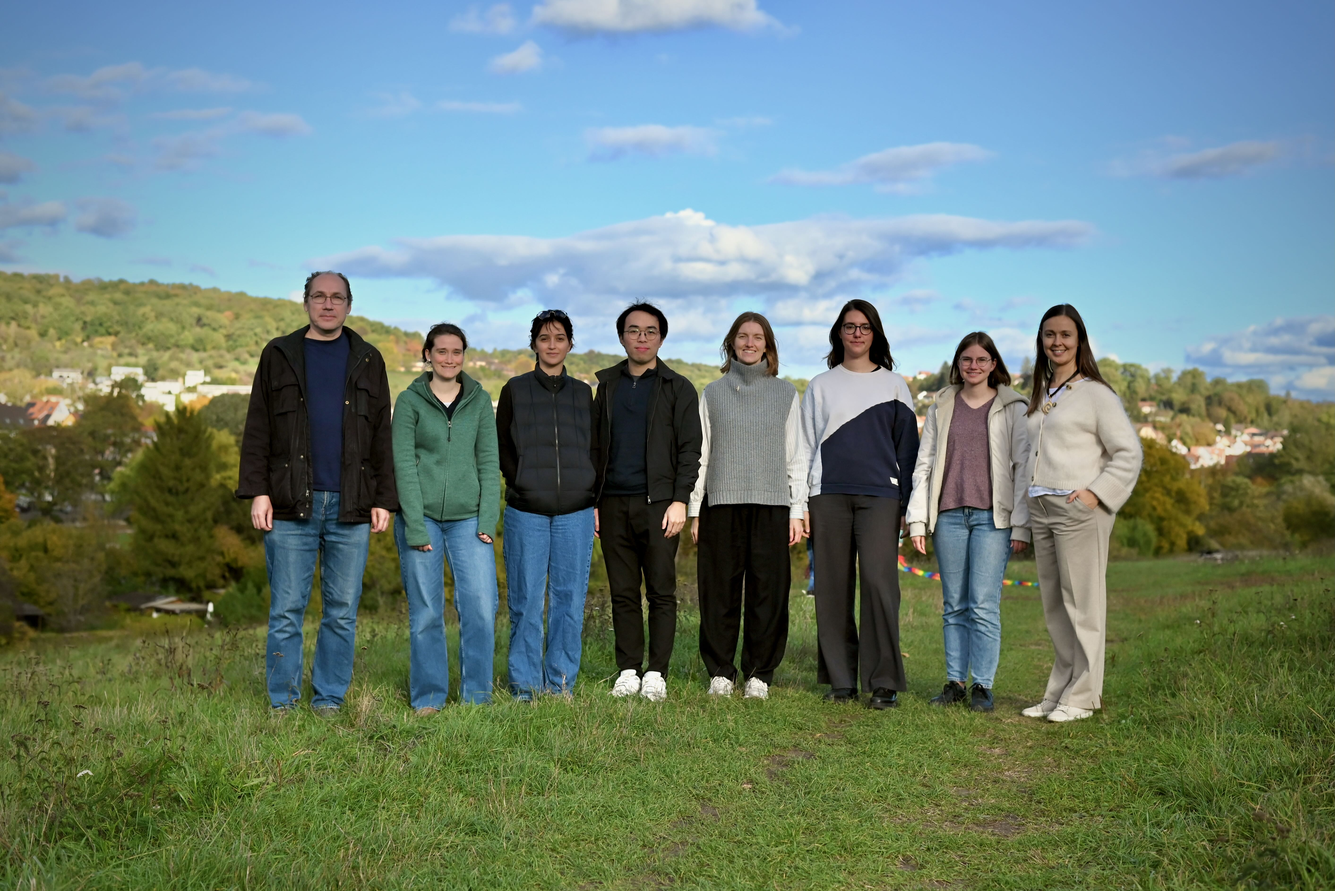
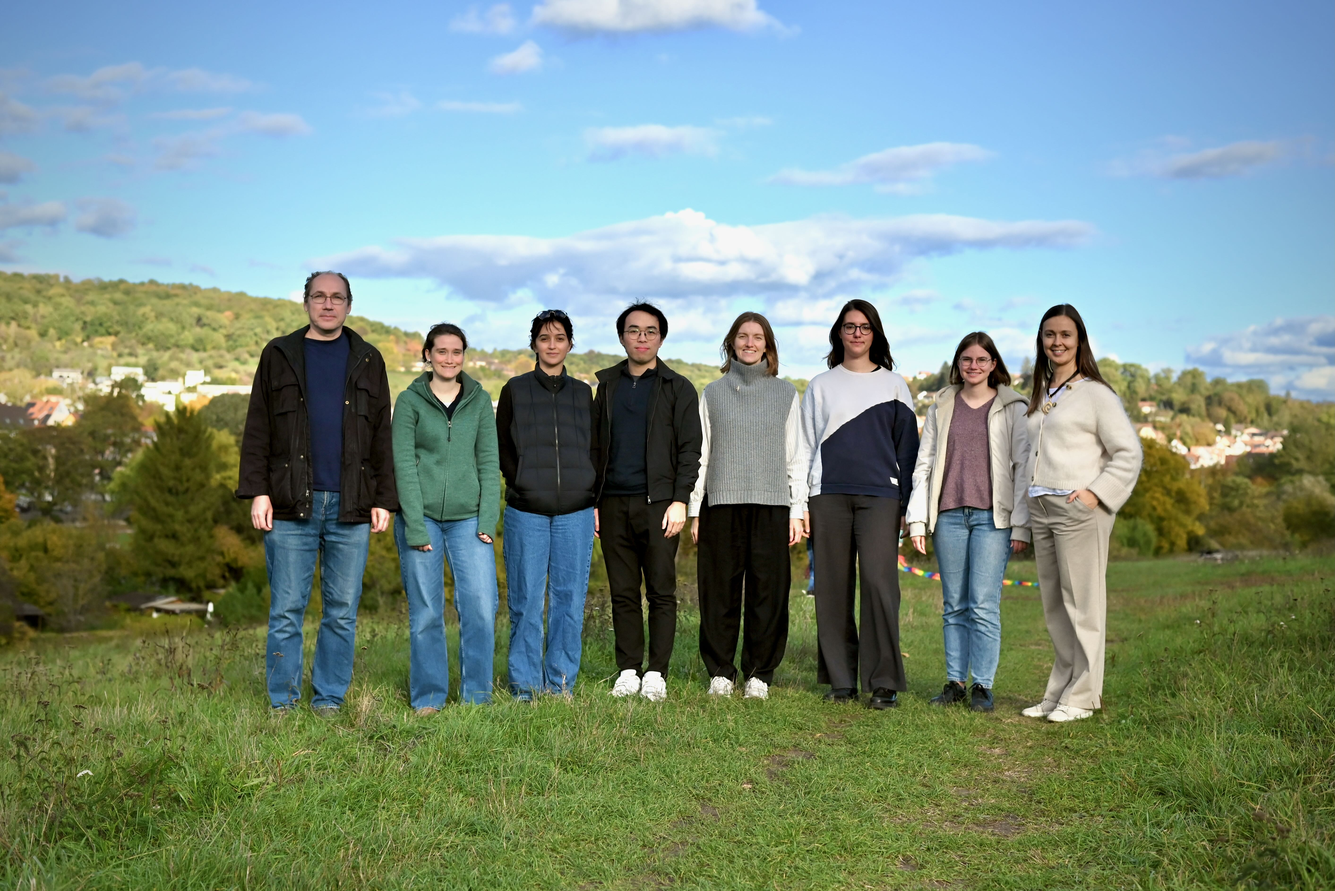
lab pic

diff --git a/lab/index.md b/lab/index.md
@@ -18,9 +18,8 @@ permalink: /lab/
 <p>Welcome to the lab! We investigate how background beliefs, perspectives, and attitudes affect the processes of speech production and interpretation, and how speakers and listeners infer each other's beliefs during communication. <img src="http://asya-achimova.github.io/images/Logo_tubingen_russita3.jpg" style="width: 100px;" /> <p> 
 
 <br>
-<br>
 
-<div style="text-align: center; margin: 50px 0;">
+<div style="text-align: center; margin: 10px 0;">
 
   <img src="http://asya-achimova.github.io/images/lab_2026.jpeg" style="width: 800px;" />
 
